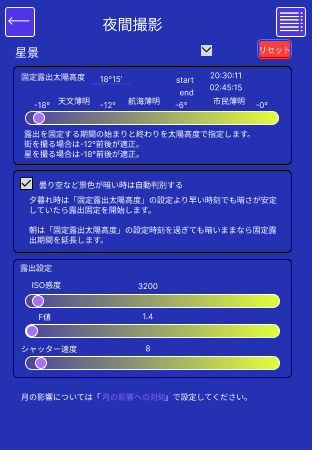
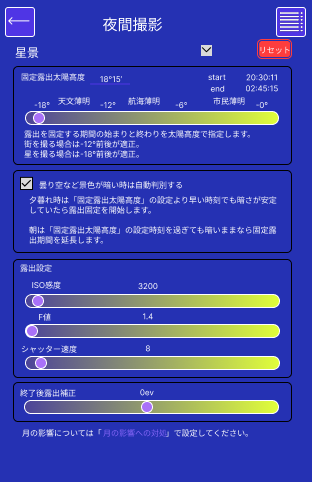
撮影制御方法: 夜間前/後移行への刷新と夜間後露出補正を実装(仕様更新反映)
- リニア移行→夜間前移行にリネーム(ccmType::preNight, 値6維持)
- 夜間後移行(ccmType::postNight)を新設。朝の薄明(-18〜-6°)を夜間後移行に分類
  (夜間は-18°で終了)、夕は夜間前移行。captureRunnerで夜間後移行は次の自動露出へ
  逆優先度で1/3段収束
- §4.8 自動露出の開始: ccm切替時は直前露出のAPEXに合わせて開始(不連続回避)
- 計画読込時にスケジュールを再生成(派生データの分類更新を反映)
- 夜間撮影に「夜間後露出補正(ev)」を追加(ccmNight.postNightEv, -5.0〜+5.0, 既定0.0)。
  Android編集UI(センター値スライダー)、JSON入出力、captureRunnerの収束目標へ加算、
  エッジ夜間詳細の表示まで対応
- §5.0設定はコード未実装のため対応不要(仕様のみ削除)
- バンド/名称/色を夜間前移行・夜間後移行に対応(Android/エッジ)

diff --git a/40_src/10_UI/20_Android/MainActivity.kt b/40_src/10_UI/20_Android/MainActivity.kt
@@ -256,6 +256,9 @@ class MainActivity : AppCompatActivity(), HgeListener {
         setupValueSlider(R.id.edit_ev_seek, 30, gradient = true) {
             findViewById<TextView>(R.id.edit_ev_val).text = String.format("%+.1f ev", seekToEv(it))
         }
+        setupValueSlider(R.id.edit_postev_seek, 30, gradient = true) {
+            findViewById<TextView>(R.id.edit_postev_val).text = String.format("%+.1f ev", seekToEv(it))
+        }
         // 朝日/夕日の太陽高度=範囲スライダー(2つまみ)。明暗バー下地・つまみ●。
         findViewById<RangeSlider>(R.id.edit_alt_range).apply {
             valueFrom = 0f; valueTo = 24f; stepSize = 1f
@@ -365,7 +368,8 @@ class MainActivity : AppCompatActivity(), HgeListener {
     }
 
     private val ccmTypeToKey = mapOf(1 to "night", 2 to "sunrise", 3 to "sunset", 4 to "day", 5 to "moon")
-    private val ccmTypeName = mapOf(1 to "夜間撮影", 2 to "朝日撮影", 3 to "夕日撮影", 4 to "日中撮影", 5 to "月の影響")
+    private val ccmTypeName = mapOf(1 to "夜間撮影", 2 to "朝日撮影", 3 to "夕日撮影", 4 to "日中撮影",
+                                    5 to "月の影響", 6 to "夜間前移行", 7 to "夜間後移行")
 
     // 撮影制御方法の編集ボタン(全5種)を常に定位置(スケジュールの下)に並べる。タップで編集画面へ。
     // 3列グリッド(夜間/朝日/夕日 と 日中/月)。色分けして「ボタンらしい」見た目にする。
@@ -539,6 +543,7 @@ class MainActivity : AppCompatActivity(), HgeListener {
         findViewById<View>(R.id.edit_ev_section).visibility = if (hasEv) View.VISIBLE else View.GONE
         findViewById<View>(R.id.edit_autoEdge).visibility = if (isNight) View.VISIBLE else View.GONE
         findViewById<View>(R.id.edit_fixed_section).visibility = if (isNight) View.VISIBLE else View.GONE
+        findViewById<View>(R.id.edit_postev_section).visibility = if (isNight) View.VISIBLE else View.GONE
         findViewById<View>(R.id.edit_limit_section).visibility = if (isNight) View.GONE else View.VISIBLE
 
         if (hasAlt) {
@@ -580,6 +585,9 @@ class MainActivity : AppCompatActivity(), HgeListener {
         }
         if (isNight) {
             findViewById<CheckBox>(R.id.edit_autoEdge).isChecked = o.optBoolean("autoEdge", true)
+            val pp = evToSeek(o.optDouble("postNightEv", 0.0))   // 夜間後露出補正
+            setSliderProgress(R.id.edit_postev_seek, pp)
+            findViewById<TextView>(R.id.edit_postev_val).text = String.format("%+.1f ev", seekToEv(pp))
             fixEditor.set(o.optJSONObject("limitBright"))
         } else {
             editLimit.set(o.optJSONObject("limitBright"), o.optJSONObject("limitDark"),
@@ -603,6 +611,7 @@ class MainActivity : AppCompatActivity(), HgeListener {
         if (editingKey != "night") o.put("ev", seekToEv(sliderProgress(R.id.edit_ev_seek)))
         if (editingKey == "night") {
             o.put("autoEdge", findViewById<CheckBox>(R.id.edit_autoEdge).isChecked)
+            o.put("postNightEv", seekToEv(sliderProgress(R.id.edit_postev_seek)))   // 夜間後露出補正
             val e = fixEditor.get()
             o.put("limitBright", e)
             o.put("limitDark", JSONObject(e.toString()))   // 固定露出は明暗同値
@@ -1153,7 +1162,8 @@ class MainActivity : AppCompatActivity(), HgeListener {
         3 -> Color.parseColor("#FFCC80")   // 夕日
         4 -> Color.parseColor("#90CAF9")   // 日中
         5 -> Color.parseColor("#CE93D8")   // 月対処
-        6 -> Color.parseColor("#A5D6A7")   // リニア移行
+        6 -> Color.parseColor("#A5D6A7")   // 夜間前移行
+        7 -> Color.parseColor("#80CBC4")   // 夜間後移行
         else -> Color.parseColor("#EEEEEE")
     }
 
@@ -1261,8 +1271,8 @@ class MainActivity : AppCompatActivity(), HgeListener {
             for (k in 1..runs.size) pos[k] = pos[k].coerceIn(pos[k - 1], n.toFloat())  // 単調・範囲内に補正
             for (k in runs.indices) {
                 val ty = runs[k].type
-                val col = if (ty in 1..5) ccmColor(ty) else 0
-                val lbl = if (ty in 1..5) ccmTypeName[ty] else null
+                val col = if (ty in 1..7) ccmColor(ty) else 0
+                val lbl = if (ty in 1..7) ccmTypeName[ty] else null
                 segs.add(BandView.Seg(pos[k], pos[k + 1], col, lbl))
             }
         }

diff --git a/40_src/20_HolyGrailEntity/10_common/src/captureRunner.cpp b/40_src/20_HolyGrailEntity/10_common/src/captureRunner.cpp
@@ -149,10 +149,25 @@ errCode captureRunner::loop(void)
 
 	const hgc::ccmWindow* curWin = nullptr;
 	expo::exposureCtl autoCtl;		// 自動露出用
-	expo::exposureCtl linCtl;		// リニア移行用
+	expo::exposureCtl preCtl;		// 夜間前移行用(自動露出→夜間)
+	expo::exposureCtl postCtl;		// 夜間後移行用(夜間→次の自動露出)
 	std::vector<double> avgBuf;		// リニア輝度の移動平均バッファ
 	hgc::exposure lastExp{};		// 直近の露出設定
+	bool meterInitPending = false;	// 自動露出の最初の補正(§4.4 測光ベース)を待っているか
 	int frame = 0;
+
+	// nowSec 以降で最初の自動露出窓の撮影制御方法を返す(夜間後移行の収束先)。
+	auto nextAutoCcmAfter = [&](long long nowSec) -> const hgc::ccmBase*
+	{
+		const hgc::ccmWindow* best = nullptr; long long bestStart = 0;
+		for (const auto& ww : plan_.ccmList)
+		{
+			if (!ww.ccm || !isAuto(ww.ccm->type)) { continue; }
+			long long s = hgc::toUnixUtc(ww.start, off_);
+			if (s >= nowSec && (best == nullptr || s < bestStart)) { best = &ww; bestStart = s; }
+		}
+		return best ? best->ccm.get() : nullptr;
+	};
 
 	while (running_)
 	{
@@ -175,25 +190,62 @@ errCode captureRunner::loop(void)
 			// 固定露出(仕様 3.2)
 			target = ccm->limitBright;
 		}
-		else if (ccm->type == hgc::ccmType::linear)
+		else if (ccm->type == hgc::ccmType::preNight)
 		{
-			// 夜間固定露出へ 1/3 段ずつ収束(仕様 3.7)
+			// 夜間前移行(仕様 3.7): 自動露出から夜間固定露出へ 1/3 段ずつ収束する。
 			hgc::exposure goal = nightGoalAfter(now);
 			if (windowChanged)
 			{
-				linCtl.init(tables_, hgc::exposure{}, hgc::exposure{}, ccm->priority);
-				linCtl.setCurrent(validExposure(lastExp) ? lastExp : goal);
+				preCtl.init(tables_, hgc::exposure{}, hgc::exposure{}, ccm->priority);
+				preCtl.setCurrent(validExposure(lastExp) ? lastExp : goal);
 			}
 			if (validExposure(goal))
 			{
-				double cur = expo::brightnessStops(linCtl.current(), tables_);
+				double cur = expo::brightnessStops(preCtl.current(), tables_);
 				double gl  = expo::brightnessStops(goal, tables_);
 				const double third = 1.0 / 3.0;
-				if (cur - gl > third / 2.0)      { linCtl.darken(); }
-				else if (gl - cur > third / 2.0) { linCtl.brighten(); }
+				if (cur - gl > third / 2.0)      { preCtl.darken(); }
+				else if (gl - cur > third / 2.0) { preCtl.brighten(); }
 			}
-			target = linCtl.current();
+			target = preCtl.current();
 			if (!validExposure(target)) { target = goal; }
+		}
+		else if (ccm->type == hgc::ccmType::postNight)
+		{
+			// 夜間後移行(仕様 3.9): 夜間固定露出から次の自動露出へなめらかに移行する。
+			// 次の撮影制御方法では優先度の低い(固定したい)露出設定を先に確定させたいので、
+			// 次の撮影制御方法の優先度を逆順にして、その初期露出へ 1/3 段ずつ収束させる。
+			const hgc::ccmBase* nextC = nextAutoCcmAfter(now);
+			hgc::exposure goal = nextC ? (nextC->initialBright ? nextC->limitDark : nextC->limitBright)
+			                           : hgc::exposure{};
+			// 直前の夜間撮影の「夜間後露出補正」を収束目標の明るさへ加える(仕様 7.4.10)。
+			double postEv = 0.0;
+			for (const auto& ww : plan_.ccmList)
+			{
+				if (!ww.ccm || ww.ccm->type != hgc::ccmType::night) { continue; }
+				if (hgc::toUnixUtc(ww.start, off_) <= now)
+				{ postEv = static_cast<const hgc::ccmNight*>(ww.ccm.get())->postNightEv; }
+			}
+			if (windowChanged)
+			{
+				hgc::exposureType rev[hgc::exposureTypeNum];
+				for (int k = 0; k < hgc::exposureTypeNum; ++k)
+				{
+					rev[k] = nextC ? nextC->priority[hgc::exposureTypeNum - 1 - k] : ccm->priority[k];
+				}
+				postCtl.init(tables_, hgc::exposure{}, hgc::exposure{}, rev);
+				postCtl.setCurrent(validExposure(lastExp) ? lastExp : goal);
+			}
+			if (validExposure(goal))
+			{
+				double cur = expo::brightnessStops(postCtl.current(), tables_);
+				double gl  = expo::brightnessStops(goal, tables_) + postEv;	// 夜間後露出補正
+				const double third = 1.0 / 3.0;
+				if (cur - gl > third / 2.0)      { postCtl.darken(); }
+				else if (gl - cur > third / 2.0) { postCtl.brighten(); }
+			}
+			target = postCtl.current();
+			if (!validExposure(target)) { target = validExposure(lastExp) ? lastExp : goal; }
 		}
 		else if (isAuto(ccm->type))
 		{
@@ -202,6 +254,21 @@ errCode captureRunner::loop(void)
 			{
 				autoCtl.init(tables_, ccm->limitBright, ccm->limitDark, ccm->priority);
 				avgBuf.clear();
+				if (validExposure(lastExp))
+				{
+					// 自動露出の開始(仕様 4.8): 撮影継続中の撮影制御方法切替では不連続を避け、
+					// 直前の露出の APEX(明るさ)に、自分の初期値から優先度に従って合わせて開始する。
+					if (ccm->initialBright) { autoCtl.setToDarkLimit(); }
+					else                    { autoCtl.setToBrightLimit(); }
+					double prevB = expo::brightnessStops(lastExp, tables_);
+					double curB  = expo::brightnessStops(autoCtl.current(), tables_);
+					autoCtl.applyStops(prevB - curB);
+					meterInitPending = false;
+				}
+				else
+				{
+					meterInitPending = true;	// 直前が無い(撮影開始直後) → §4.4 測光で初期化
+				}
 			}
 
 			// 測光(ライブビューのヒストグラム)→ リニア輝度(仕様 4.3)
@@ -217,13 +284,14 @@ errCode captureRunner::loop(void)
 
 			if (linear > 0.0)
 			{
-				if (windowChanged)
+				if (meterInitPending)
 				{
 					// 最初の補正(仕様 4.4): 初期値(明所限界 or 暗所限界)から目標evへ寄せる。
 					double evD = expo::evFromLinear(expo::EV0_LINEAR, linear);	// log2(linear/0.18)
 					if (ccm->initialBright) { autoCtl.setToDarkLimit(); }   // 明所限界(limitDark)を初期値に
 					else                    { autoCtl.setToBrightLimit(); } // 暗所限界(limitBright)を初期値に
 					autoCtl.applyStops(evT - evD);
+					meterInitPending = false;
 				}
 				else
 				{

diff --git a/40_src/10_UI/10_M5Stack/main.cpp b/40_src/10_UI/10_M5Stack/main.cpp
@@ -87,7 +87,8 @@ static uint16_t ccmColor(int t)
 	case 3: return M5.Display.color565(0xFF, 0xCC, 0x80);	// 夕日
 	case 4: return M5.Display.color565(0x90, 0xCA, 0xF9);	// 日中
 	case 5: return M5.Display.color565(0xCE, 0x93, 0xD8);	// 月対処
-	case 6: return M5.Display.color565(0xA5, 0xD6, 0xA7);	// リニア移行
+	case 6: return M5.Display.color565(0xA5, 0xD6, 0xA7);	// 夜間前移行
+	case 7: return M5.Display.color565(0x80, 0xCB, 0xC4);	// 夜間後移行
 	default: return M5.Display.color565(0xEE, 0xEE, 0xEE);
 	}
 }
@@ -101,7 +102,8 @@ static const char* ccmName(int t)
 	case 3: return "夕日撮影";
 	case 4: return "日中撮影";
 	case 5: return "月の影響";
-	case 6: return "リニア移行";
+	case 6: return "夜間前移行";
+	case 7: return "夜間後移行";
 	default: return "?";
 	}
 }
@@ -274,7 +276,7 @@ static void renderCcm(void)
 	case 3: key = "sunset";  break;
 	case 4: key = "day";     break;
 	case 5: key = "moon";    break;
-	default: key = nullptr;  break;	// 6=リニア移行(編集項目なし)
+	default: key = nullptr;  break;	// 6=夜間前移行/7=夜間後移行(編集項目なし)
 	}
 
 	g_cv.fillScreen(TFT_BLACK);
@@ -297,6 +299,8 @@ static void renderCcm(void)
 			std::snprintf(b, sizeof(b), "固定露出 太陽高度 %.0f°", c.value("sunAltitude", 0.0));
 			y = line(y, b);
 			y = line(y, std::string("画角端で自動: ") + (c.value("autoEdge", false) ? "ON" : "OFF"));
+			std::snprintf(b, sizeof(b), "夜間後露出補正 %+.1fev", c.value("postNightEv", 0.0));
+			y = line(y, b);
 		}
 		else if (g_ccmType == 2 || g_ccmType == 3)
 		{
@@ -335,8 +339,13 @@ static void renderCcm(void)
 	}
 	else if (g_ccmType == 6)
 	{
-		y = line(y, "リニア移行");
+		y = line(y, "夜間前移行");
 		y = line(y, "夜間へ滑らかに露出を変化させます");
+	}
+	else if (g_ccmType == 7)
+	{
+		y = line(y, "夜間後移行");
+		y = line(y, "夜間から次へ滑らかに露出を戻します");
 	}
 	else
 	{

diff --git a/40_src/20_HolyGrailEntity/10_common/src/astroSched.cpp b/40_src/20_HolyGrailEntity/10_common/src/astroSched.cpp
@@ -67,8 +67,9 @@ namespace astro
 			if (h < nightAlt) { return hgc::ccmType::night; }
 			if (h >= twiAlt)  { return hgc::ccmType::day; }
 			// 薄明帯(nightAlt..twiAlt)で太陽が画角外:
-			//  朝(上昇)はまだ暗いので固定(夜間)、夕(下降)は夜間へリニア移行。
-			return rising ? hgc::ccmType::night : hgc::ccmType::linear;
+			//  朝(上昇)は夜間→次の自動露出への「夜間後移行」、
+			//  夕(下降)は自動露出→夜間への「夜間前移行」。
+			return rising ? hgc::ccmType::postNight : hgc::ccmType::preNight;
 		}
 
 		// 種別から区間用の撮影制御方法を生成する(プロトタイプを深いコピー)。
@@ -88,10 +89,16 @@ namespace astro
 			case hgc::ccmType::day:
 				if (set.day)     { return set.day->clone(); }
 				break;
-			case hgc::ccmType::linear:
+			case hgc::ccmType::preNight:
 			{
-				auto c = std::make_shared<hgc::ccmBase>(hgc::ccmType::linear);
-				c->name = "linear";
+				auto c = std::make_shared<hgc::ccmBase>(hgc::ccmType::preNight);
+				c->name = "preNight";
+				return c;
+			}
+			case hgc::ccmType::postNight:
+			{
+				auto c = std::make_shared<hgc::ccmBase>(hgc::ccmType::postNight);
+				c->name = "postNight";
 				return c;
 			}
 			default: break;

diff --git a/40_src/20_HolyGrailEntity/10_common/src/csJson.cpp b/40_src/20_HolyGrailEntity/10_common/src/csJson.cpp
@@ -140,6 +140,7 @@ namespace csjson
 			{
 				const auto& n = static_cast<const hgc::ccmNight&>(c);
 				j["sunAltitude"] = n.sunAltitude; j["autoEdge"] = n.autoEdge;
+				j["postNightEv"] = n.postNightEv;
 				break;
 			}
 			case hgc::ccmType::sunrise:
@@ -189,6 +190,7 @@ namespace csjson
 				auto n = std::make_shared<hgc::ccmNight>();
 				n->sunAltitude = j.value("sunAltitude", -18.0);
 				n->autoEdge    = j.value("autoEdge", true);
+				n->postNightEv = j.value("postNightEv", 0.0);
 				c = n; break;
 			}
 			case hgc::ccmType::sunrise:
@@ -226,8 +228,10 @@ namespace csjson
 				m->skyBrightnessCoef = j.value("skyBrightnessCoef", 100.0);
 				c = m; break;
 			}
-			case hgc::ccmType::linear:
-				c = std::make_shared<hgc::ccmBase>(hgc::ccmType::linear); break;
+			case hgc::ccmType::preNight:
+				c = std::make_shared<hgc::ccmBase>(hgc::ccmType::preNight); break;
+			case hgc::ccmType::postNight:
+				c = std::make_shared<hgc::ccmBase>(hgc::ccmType::postNight); break;
 			default:
 				c = std::make_shared<hgc::ccmBase>(t); break;
 			}

diff --git a/40_src/20_HolyGrailEntity/10_common/src/ccm.h b/40_src/20_HolyGrailEntity/10_common/src/ccm.h
@@ -18,7 +18,8 @@ namespace hgc
 		sunset,			// 夕日撮影(太陽直接撮影 夕)
 		day,			// 日中撮影
 		moon,			// 月の影響への対処
-		linear			// リニア移行(仕様3.7。ユーザー設定項目なし)
+		preNight,		// 夜間前移行(旧リニア移行, 仕様3.7。自動露出→夜間。ユーザー設定項目なし)
+		postNight		// 夜間後移行(仕様3.9。夜間→次の自動露出へ逆優先度で移行)
 	};
 
 	// 3.1.4 撮影制御方法 基本クラス
@@ -47,6 +48,7 @@ namespace hgc
 	{
 		double sunAltitude = -18.0;	// 開始終了の太陽高度[°]
 		bool   autoEdge    = true;	// 開始終了の自動判別
+		double postNightEv = 0.0;	// 夜間後移行(仕様3.9/7.4.10)の露出補正[ev]。範囲 -5.0〜+5.0
 
 		ccmNight() : ccmBase(ccmType::night) {}
 		std::unique_ptr<ccmBase> clone() const override { return std::make_unique<ccmNight>(*this); }

diff --git a/40_src/20_HolyGrailEntity/10_common/src/captureRunner.h b/40_src/20_HolyGrailEntity/10_common/src/captureRunner.h
@@ -4,7 +4,8 @@
 // 撮影計画(cs)のスケジュールに従い、別スレッドで撮影ループを回す。
 //  - 夜間撮影: 固定露出
 //  - 朝日/夕日/日中: 測光→露出決定の自動露出(初期補正・移動平均・ヒステリシス)
-//  - リニア移行: 夜間の固定露出へ 1/3 段ずつ収束
+//  - 夜間前移行: 自動露出→夜間の固定露出へ 1/3 段ずつ収束
+//  - 夜間後移行: 夜間→次の自動露出へ逆優先度で 1/3 段ずつ収束
 // カメラ I/O は cameraController(CCAPI) を使用する。
 
 #include "common.h"

diff --git a/40_src/20_HolyGrailEntity/10_common/src/astroSched.h b/40_src/20_HolyGrailEntity/10_common/src/astroSched.h
@@ -3,7 +3,7 @@
 // 仕様書(10) 2.2 撮影計画自動生成。
 // 撮影開始日時・場所・撮影方向(方位/仰角)・カメラ/レンズから、
 // 日の出/日没/各薄明の時刻と「太陽が画角に入る時刻」を計算し、
-// 撮影制御方法(夜間/朝日/夕日/日中/リニア移行)のスケジュールを生成する。
+// 撮影制御方法(夜間/朝日/夕日/日中/夜間前移行/夜間後移行)のスケジュールを生成する。
 // 天文計算は Astronomy Engine をラップする。
 
 #include "hgcCommon.h"

diff --git a/40_src/20_HolyGrailEntity/10_common/src/holyGrailEntity.cpp b/40_src/20_HolyGrailEntity/10_common/src/holyGrailEntity.cpp
@@ -250,6 +250,9 @@ namespace
 			if (ccmJson.empty())
 			{ dataManager::parseCcmSetJson(dataManager::ccmDefaultsJson(), g_planCcm, g_planMoon); }
 			if (!g_planMoon) { g_planMoon = dataManager::factoryMoon(); }
+			// 保存済みの ccmList は生成時のロジックに依存する派生データなので、
+			// 復元した start/end/方向/機材と現在の撮影制御方法で作り直す(分類仕様の更新を反映)。
+			astro::buildSchedule(g_plan, g_planCcm, g_offMin);
 			buildScheduleJson();
 			g_planReady = true;
 			return ERR_HGC_OK;
